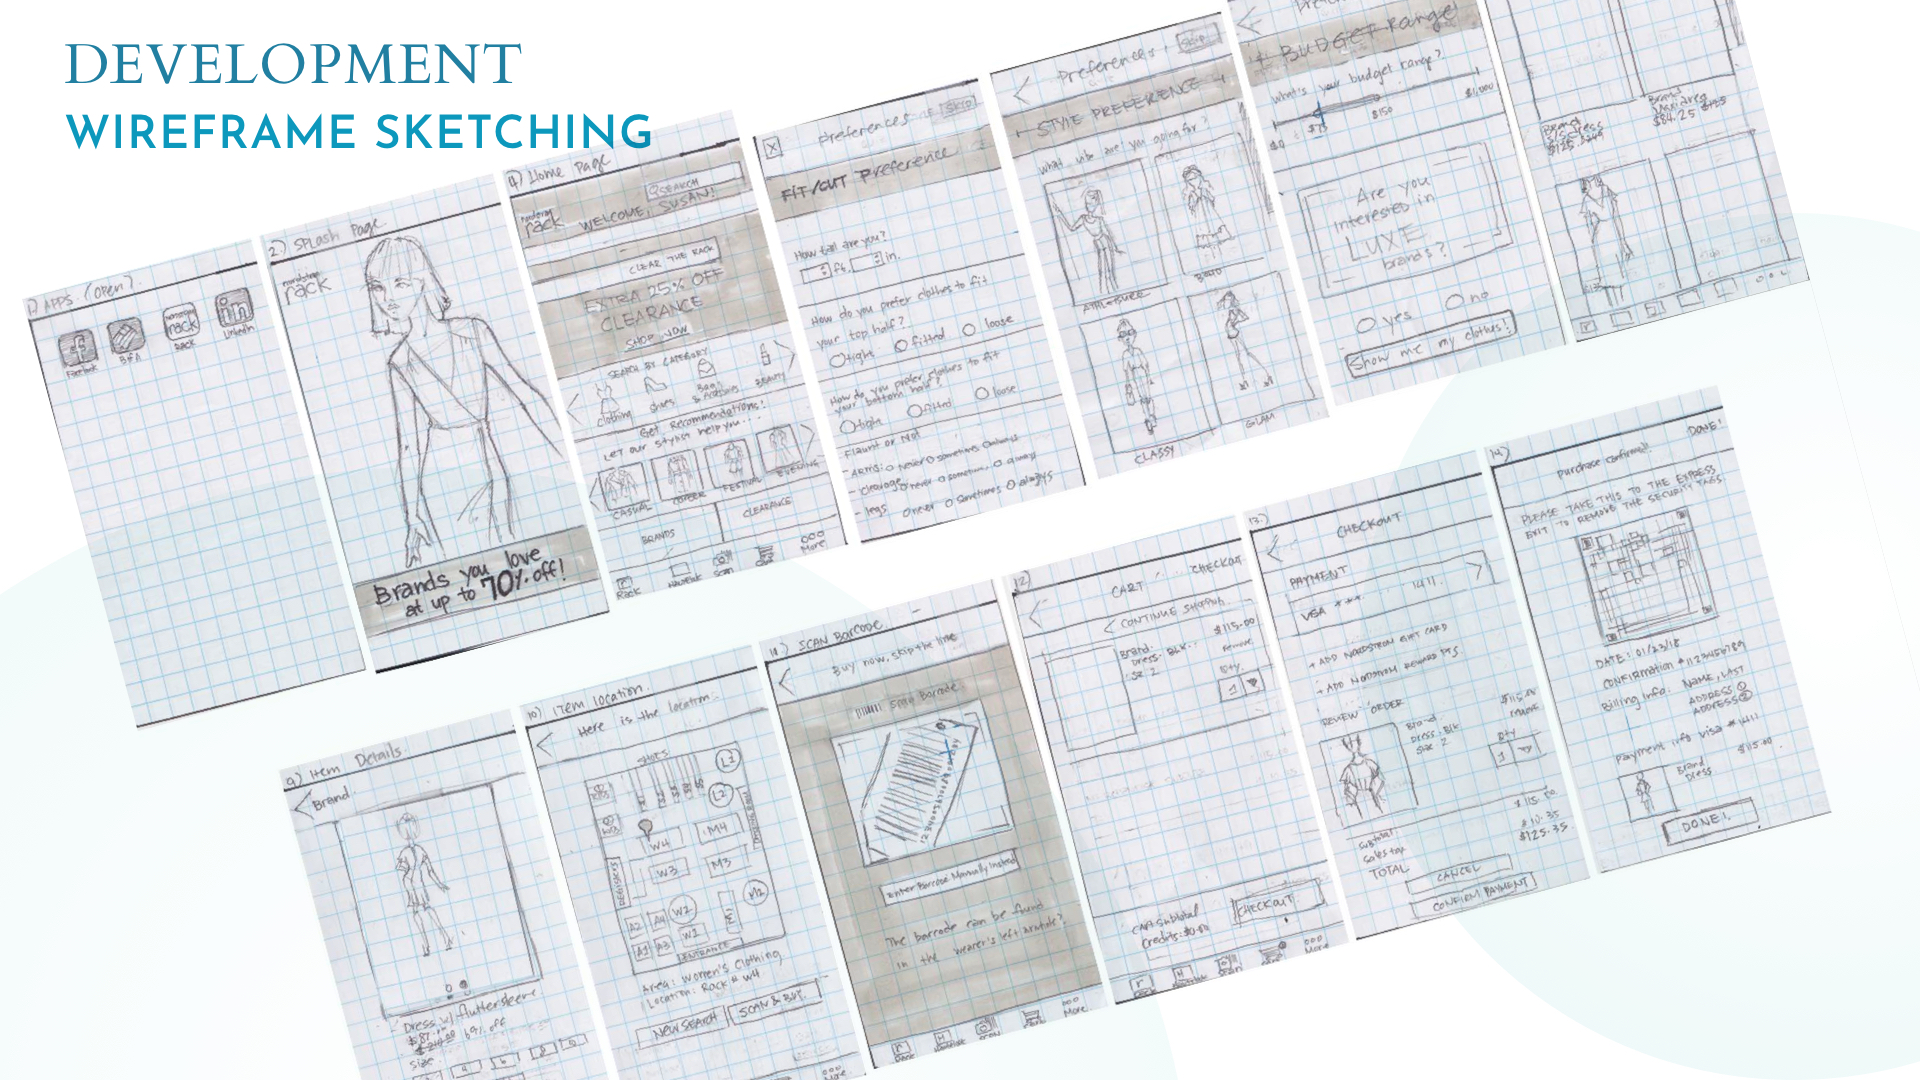
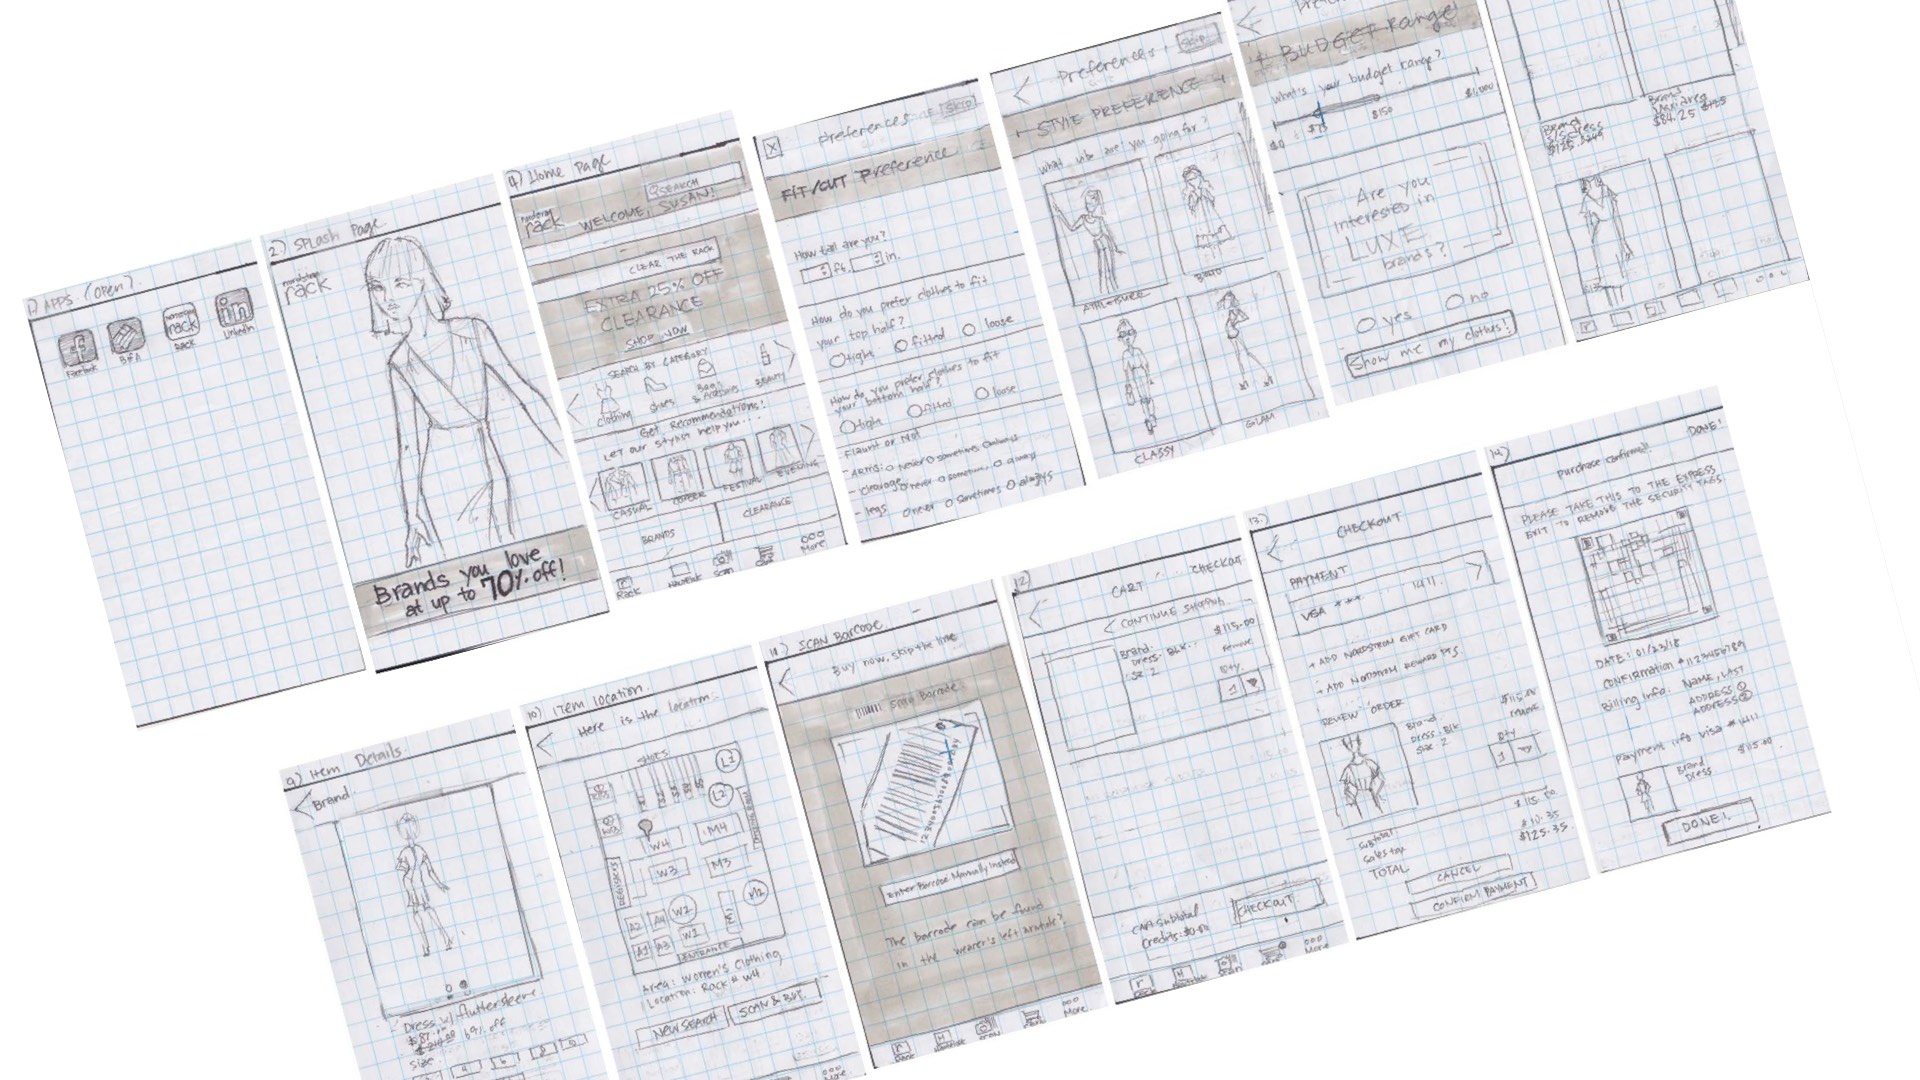
revised nrackpg

Changed region(s): [[0.0312, 0.0306, 0.3438, 0.1528]]

diff --git a/nordstromrack.html b/nordstromrack.html
@@ -171,103 +171,174 @@
 
 
           <div class="row">
-            <div class="col-sm-12">
+
+            <div class="col-sm-1 col-md-1 col-lg-1"></div>
+            <div class="col-sm-10 col-md-10 col-lg-10">
+              <h4>Overview</h4>
+              <div class="post-meta font-alt"></div>
+              <p> <i class="fas fa-paint-brush"></i>
+
+                Media Used: Sketch, Illustrator, &amp; Invision </p>
+              <p>
+                <i class="fas fa-users" aria-hidden="true"></i>
+                Group: 3 group members.
+              </p>
+              <p>
+                <i class="fas fa-user" aria-hidden="true"></i>
+                My Role: Research, Design, &amp; Presentation
+              </p>
+
+
+
               <!-- <div class="watermarkcontainer">
                           <img src="assets/theme/images/watermark.png" alt="">
                         </div> -->
               <img src="assets/theme/images/NordstromRack/Page_02.jpg" alt="Nor." class="image-center90"
                 onContextMenu="return false;" draggable="false">
             </div>
+            <div class="col-sm-1 col-md-1 col-lg-1"></div>
           </div>
 
 
           <div class="row">
-            <div class="col-sm-12">
+            <div class="col-sm-1 col-md-1 col-lg-1"></div>
+            <div class="col-sm-10">
+
+              <h4>Research &amp; Synthesis</h4>
+              <div class="post-meta font-alt"></div>
               <!-- <div class="watermarkcontainer">
                             <img src="assets/theme/images/watermark.png" alt="">
                           </div> -->
               <img src="assets/theme/images/NordstromRack/Page_03.jpg" alt="" class="image-center90"
                 onContextMenu="return false;" draggable="false" srcset="">
             </div>
+            <div class="col-sm-1 col-md-1 col-lg-1"></div>
           </div>
 
           <div class="row">
-            <div class="col-sm-12">
+            <div class="col-sm-1 col-md-1 col-lg-1"></div>
+            <div class="col-sm-10 col-md-10 col-lg-10">
 
               <img src="assets/theme/images/NordstromRack/Page_04.jpg" alt="" class="image-center90"
                 onContextMenu="return false;" draggable="false" srcset="">
             </div>
+            <div class="col-sm-1 col-md-1 col-lg-1"></div>
           </div>
 
+
           <div class="row">
-            <div class="col-sm-12">
+            <div class="col-sm-1 col-md-1 col-lg-1"></div>
+            <div class="col-sm-10 col-md-10 col-lg-10">
 
               <img src="assets/theme/images/NordstromRack/Page_05.jpg" alt="" class="image-center90" draggable="false"
                 onContextMenu="return false;" srcset="">
             </div>
+            <div class="col-sm-1 col-md-1 col-lg-1"></div>
           </div>
 
 
 
           <div class="row">
-            <div class="col-sm-12">
+            <div class="col-sm-1 col-md-1 col-lg-1"></div>
+            <div class="col-sm-10 col-md-10 col-lg-10">
 
+              <h4>Ideation</h4>
+              <div class="post-meta font-alt"></div>
+              <p>Storyboarding Quick Sketches:</p>
               <img src="assets/theme/images/NordstromRack/Page_06.jpg" alt="" class="image-center90" draggable="false"
                 onContextMenu="return false;" srcset="">
             </div>
+            <div class="col-sm-1 col-md-1 col-lg-1"></div>
           </div>
 
           <div class="row">
-            <div class="col-sm-12">
-
+            <div class="col-sm-1 col-md-1 col-lg-1"></div>
+            <div class="col-sm-10 col-md-10 col-lg-10">
+              <p>Journey Mapping:</p>
               <img src="assets/theme/images/NordstromRack/Page_07.jpg" alt="" class="image-center90" draggable="false"
                 onContextMenu="return false;" srcset="">
             </div>
+            <div class="col-sm-1 col-md-1 col-lg-1"></div>
           </div>
 
           <div class="row">
-            <div class="col-sm-12">
-
+            <div class="col-sm-1 col-md-1 col-lg-1"></div>
+            <div class="col-sm-10 col-md-10 col-lg-10">
+              <h4>Iteration</h4>
+              <div class="post-meta font-alt"></div>
+              <p>Quick Sketch Wireframes:</p>
               <img src="assets/theme/images/NordstromRack/Page_08.jpg" alt="" class="image-center90" draggable="false"
                 onContextMenu="return false;" srcset="">
             </div>
+            <div class="col-sm-1 col-md-1 col-lg-1"></div>
           </div>
           <div class="row">
-            <div class="col-sm-12">
-
+            <div class="col-sm-1 col-md-1 col-lg-1"></div>
+            <div class="col-sm-10 col-md-10 col-lg-10">
+              <p>Digital Wireframing:</p>
               <img src="assets/theme/images/NordstromRack/Page_09.jpg" alt="" class="image-center90" draggable="false"
                 onContextMenu="return false;" srcset="">
             </div>
+            <div class="col-sm-1 col-md-1 col-lg-1"></div>
           </div>
 
           <div class="row">
-            <div class="col-sm-12">
-
+            <div class="col-sm-1 col-md-1 col-lg-1"></div>
+            <div class="col-sm-10 col-md-10 col-lg-10">
+              <p>High Fidelity Wireframes &amp; Prototyping:</p>
               <img src="assets/theme/images/NordstromRack/Page_10.jpg" alt="phone page" class="image-center90"
                 draggable="false" onContextMenu="return false;" srcset="">
             </div>
+            <div class="col-sm-1 col-md-1 col-lg-1"></div>
           </div>
 
           <div class="row">
+            <div class="col-sm-1 col-md-1 col-lg-1"></div>
+            <div class="col-sm-10 col-md-10 col-lg-10">
 
+              <div class="textalign-center">
 
-            <div class="textalign-center">
-
-              <a class="btn btn-flat-solid teal-btn" href="https://invis.io/6EUE9XW4BU5#/288996962_00_-_IOS_Screen"
-                target="_blank" data-toggle="tooltip" data-placement="top">
-                Prototype
-              </a>
+                <a class="btn btn-flat-solid teal-btn" href="https://invis.io/6EUE9XW4BU5#/288996962_00_-_IOS_Screen"
+                  target="_blank" data-toggle="tooltip" data-placement="top">
+                  Prototype
+                </a>
+                <br><br> </div>
             </div>
-
-
-
-
-
-
-            <img src="assets/theme/images/NordstromRack/Page_11.jpg" alt="" class="image-center90" draggable="false"
-              onContextMenu="return false;" srcset="">
+            <div class="col-sm-1 col-md-1 col-lg-1"></div>
           </div>
-        </div>
+
+
+          <div class="row">
+            <div class="col-sm-1 col-md-1 col-lg-1"></div>
+            <div class="col-sm-10 col-md-10 col-lg-10">
+              <h5>Next Steps:</h5>
+              <p>
+                Since this app is a new concept for many users, it would be valuable to perform a cognitive
+                walkthrough to ensure that the app matches as closely to the user's mental model as possible. In
+                addition, a usability test would reveal any issues with the interface, interactions, or flow of the
+                app.
+              </p>
+              <br>
+              <h4>Conclusion</h4>
+              <div class="post-meta font-alt"></div>
+              <p>
+                Enhancing the current Nordstrom Rack app would help customers that feel overwhelmed by the product in
+                Nordstrom Rack stores, by giving customized, in-stock product suggestions, helping shoppers locate the
+                items, and allowing them to self-checkout.
+              </p>
+              <p>This feature would alleviate the workload of current Nordstrom Rack employees, so they can focus on
+                higher
+                quality customer service, while increasing the number of in-store sales.
+                As the feature becomes fully integrated with the app, there is much opportunity to give shoppers a
+                better,
+                more personalized experience. </p>
+
+
+
+            </div>
+            <div class="col-sm-1 col-md-1 col-lg-1"></div>
+
+          </div>
 
 
 
@@ -282,19 +353,21 @@
 
 
 
-        <div class="row  ">
-          <div class="col-md-12">
-            <!-- <div class="watermarkcontainer">
+
+
+          <div class="row  ">
+            <div class="col-md-12">
+              <!-- <div class="watermarkcontainer">
                               <img src="assets/theme/images/watermark.png" alt="">
                             </div> -->
 
 
 
-            <br>
+              <br>
 
 
+            </div>
           </div>
-        </div>
 
 
 

diff --git a/assets/theme/css/style.css b/assets/theme/css/style.css
@@ -187,7 +187,7 @@ h6 {
 }
 
 .image-center90 {
-  width: 90%;
+  width: 100%;
   text-align: center;
   display: block;
   margin: auto;
